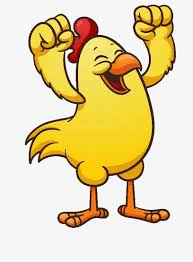
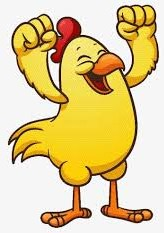
Made CS160 Folder, Fancy Images

diff --git a/index.html b/index.html
@@ -2,6 +2,17 @@
 <html>
 <head>
 <title>Home Page</title>
+<style>
+img{
+    margin-left: auto;
+    margin-right: auto;
+    display: block;
+    width: 45%;
+    border-radius: 10%;
+    border-style: dotted;
+    border-color: maroon;
+}
+</style>
 </head>
 <body>
 
@@ -12,7 +23,7 @@
 
 <p>Why did the chicken cross the road?</p>
 
-<a href="./demo/index.html">Demo Folder</a>
+<a href="./demo/index.html">Punchline</a>
 <div>
     <a href="https://www.youtube.com/watch?v=dQw4w9WgXcQ">COCC Website</a>
 </div>

diff --git a/demo/index.html b/demo/index.html
@@ -1,12 +1,23 @@
 <!DOCTYPE html>
 <html>
 <head>
-<title>Demo Folder</title>
+<title>Punchline</title>
+<style>
+img {
+    display: block;
+    margin-left: auto;
+    margin-right: auto;
+    width: 25%;
+    border-radius: 10%;
+    border-style: solid;
+    border-color: maroon;
+}
+</style>
 </head>
 <body>
 
 <!-- This is a comment!-->
-<h1>Demo Folder</h1>
+<h1>Punchline</h1>
 
 <img src="../images/To_get_to_the_other_side.jpg" alt="Happy Chicken!">
 

diff --git a/CS160/index.html b/CS160/index.html
@@ -1,0 +1,13 @@
+<!DOCTYPE html>
+<html lang="en">
+<head>
+    <meta charset="utf-8">
+    <title>CS160 Portfolio</title>
+</head>
+ 
+<body id="home">
+ 
+<h1>CS160 Portfolio</h1> <!--Add name somewhere-->
+ 
+</body>
+</html>
